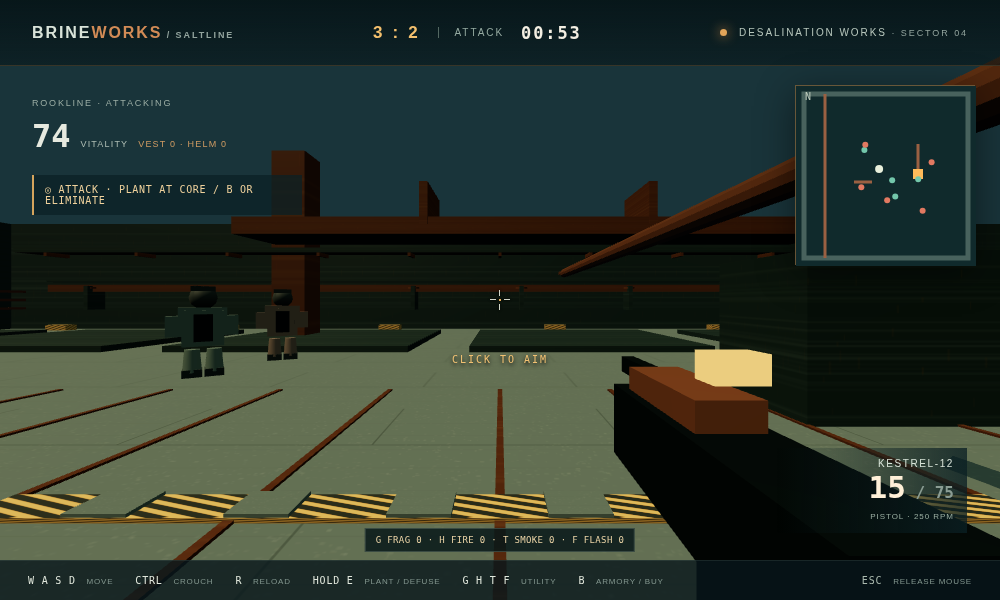
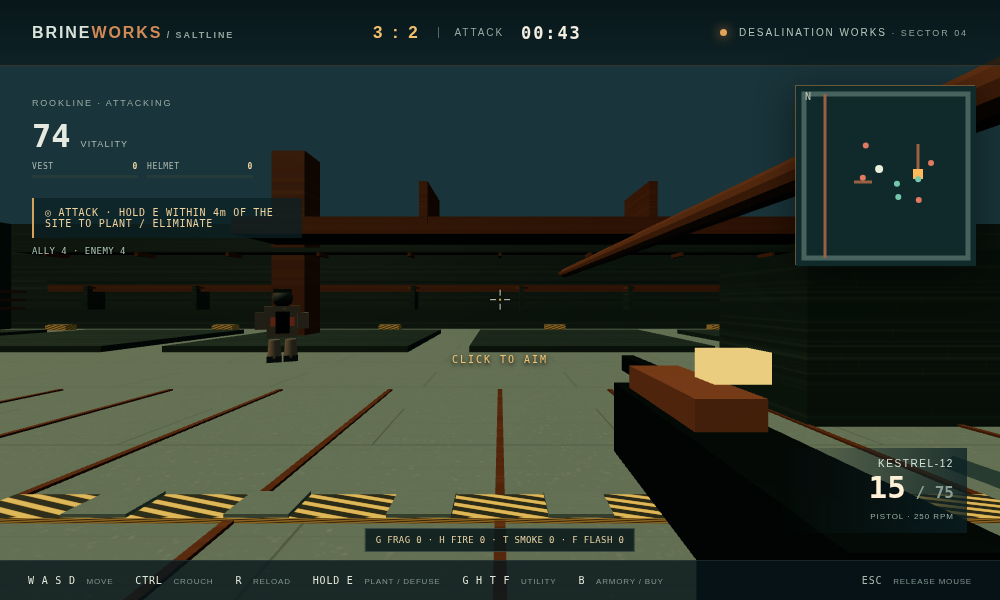
Improve tactical FPS feedback and projectile collision

diff --git a/game/src/ui.js b/game/src/ui.js
@@ -1,10 +1,10 @@
 import {state,buy,buyVest,buyHelmet,buyUtility,utilityCatalog,roleForRound} from './simulation.js';
-import {arsenal,categories} from './weapons.js';
+import {arsenal,categories,spreadForShot,recoilAngle} from './weapons.js';
 
 const root=document.querySelector('#ui');
 root.innerHTML=`<header class="top"><div class="brand">BRINE<span>WORKS</span><small> / SALTLINE</small></div><div class="round"><b id="score">0 : 0</b><span id="phase">BUY WINDOW</span><strong id="timer">00:12</strong></div><div class="site"><i></i> DESALINATION WORKS <small>· SECTOR 04</small></div></header>
-<div class="left"><div class="eyebrow" id="role">ROOKLINE · ATTACKING</div><div class="health"><b id="health">100</b><small>VITALITY</small><span id="armor">VEST 0 · HELM 0</span></div><div class="objective" id="objective">◎ SECURE THE SALT CORE</div><div class="feed" id="feed"></div></div>
-<div class="minimap"><canvas id="map" width="180" height="180"></canvas><span>N</span></div><div id="crosshair" class="crosshair"><i></i><i></i><i></i><i></i><b></b></div>
+<div class="left"><div class="eyebrow" id="role">ROOKLINE · ATTACKING</div><div class="health"><b id="health">100</b><small>VITALITY</small></div><div class="armor" aria-label="Armor durability"><span>VEST <b id="vest-value">0</b><i id="vest-bar" role="progressbar" aria-label="Vest durability" aria-valuemin="0" aria-valuemax="100" aria-valuenow="0"><em id="vest-fill"></em></i></span><span>HELMET <b id="helmet-value">0</b><i id="helmet-bar" role="progressbar" aria-label="Helmet durability" aria-valuemin="0" aria-valuemax="100" aria-valuenow="0"><em id="helmet-fill"></em></i></span></div><div class="objective" id="objective">◎ SECURE THE SALT CORE</div><div class="tactical" id="tactical"></div><div class="feed" id="feed"></div></div>
+<div class="minimap"><canvas id="map" width="180" height="180"></canvas><span>N</span></div><div id="crosshair" class="crosshair"><i></i><i></i><i></i><i></i><b></b></div><div id="hit-confirm" class="hit-confirm" aria-live="polite"></div><div id="incoming-cue" class="incoming-cue" aria-live="polite"></div>
 <div class="weapon"><div id="weapon">KESTREL-12</div><strong><b id="ammo">15</b><small> / <span id="stock">75</span></small></strong><em id="weapon-kind">PISTOL</em></div><div id="hint" class="hint">CLICK TO DEPLOY</div><div id="utility-hud" class="utility-hud" aria-label="In-round utility inventory"></div>
 <div class="buy hidden" id="buy"><div class="buy-head"><div><small>INTERMISSION / ARMORY</small><h1>Choose your <i>edge.</i></h1></div><div class="cash">◈ <b id="cash">1,800</b><small> CREDITS</small></div></div><div class="cards" id="cards"></div><div class="protection" aria-label="Tactical protection purchases"><button id="buy-vest" type="button">TACTICAL VEST <b>◈ 650</b><small>100 DURABILITY · 50% BODY REDUCTION</small><em class="durability">VEST EQUIPPED: 0</em></button><button id="buy-helmet" type="button">HELMET <b>◈ 350</b><small>100 DURABILITY · 50% PISTOL / SMG / LMG HEAD REDUCTION</small><em class="durability">HELMET EQUIPPED: 0</em></button></div><div class="utility-heading"><b>UTILITY · MAX 2 ITEMS</b><span>G FRAG · H INCENDIARY · T SMOKE · F FLASH</span></div><div class="utility-buy" id="utility-buy" aria-label="Utility purchases"></div><div class="buy-foot">1—5 SELECT / PURCHASE · CURRENT LOADOUT STAYS EQUIPPED · NEXT ROUND IN <b id="buytime">12</b></div></div>
 <div class="flash-overlay" id="flash-overlay" aria-hidden="true"></div><div class="result hidden" id="result"><small id="resultline">ROUND WON</small><h2 id="resulttitle">SITE SECURED</h2><p>Rearm and return to the salt line.</p></div>
@@ -16,4 +16,4 @@ arsenal.forEach((w,i)=>{const d=document.createElement('button');d.className='ca
 function updateArmory(){$('buy-vest').disabled=state.phase!=='buy'||state.vestBought||state.credits<650;$('buy-helmet').disabled=state.phase!=='buy'||state.helmetBought||state.credits<350;$('buy-vest').querySelector('.durability').textContent=`VEST EQUIPPED: ${state.vest}`;$('buy-helmet').querySelector('.durability').textContent=`HELMET EQUIPPED: ${state.helmet}`;$('buy-vest').setAttribute('aria-label',`Buy tactical vest for 650 credits; ${state.vest} durability equipped`);$('buy-helmet').setAttribute('aria-label',`Buy helmet for 350 credits; ${state.helmet} durability equipped`);for(const button of $('utility-buy').children){const type=button.dataset.utility,item=utilityCatalog[type],slots=Object.values(state.utilities).reduce((a,b)=>a+b,0);button.disabled=state.phase!=='buy'||state.utilities[type]>0||slots>=2||state.credits<item.cost;button.querySelector('.utility-status').textContent=state.utilities[type]?'PURCHASED':slots>=2?'2 ITEM LIMIT':state.credits<item.cost?'INSUFFICIENT CREDITS':'AVAILABLE';}cardNodes.forEach((d,i)=>{const w=arsenal[i],current=state.weapon.id===i;d.classList.toggle('current',current);d.disabled=state.phase!=='buy'||(!current&&state.credits<w.cost);d.querySelector('.cost').textContent=w.cost===0?'ISSUED / FREE':`◈ ${w.cost.toLocaleString()}`;d.querySelector('.selection').textContent=current?'EQUIPPED':state.credits<w.cost?'INSUFFICIENT CREDITS':'1—5 · BUY / EQUIP';});}
 let buyOpen=state.phase==='buy',previousPhase=state.phase;
 export function toggleArmory(){if(state.phase!=='buy')return false;buyOpen=!buyOpen;return true;}
-export function renderUI(){const live=state.phase==='live',attack=state.player.team===(state.round<=5?'Rookline':'Sumpguard'),side=state.player.team;if(state.phase!==previousPhase){if(state.phase==='buy')buyOpen=true;previousPhase=state.phase;}$('role').textContent=`${side.toUpperCase()} · ${roleForRound(side,state.round)}`;$('score').textContent=`${state.score.Rookline} : ${state.score.Sumpguard}`;$('phase').textContent=state.phase==='buy'?'BUY WINDOW':live?(attack?'ATTACK':'DEFEND'):'ROUND COMPLETE';$('timer').textContent=`${String(Math.max(0,Math.ceil(state.phase==='live'&&state.core?state.core.timer:state.clock)/60|0)).padStart(2,'0')}:${String(Math.max(0,Math.ceil(state.phase==='live'&&state.core?state.core.timer:state.clock)%60)).padStart(2,'0')}`;$('health').textContent=Math.max(0,state.health);$('armor').textContent=`VEST ${state.vest} · HELM ${state.helmet}`;$('utility-hud').textContent=`G FRAG ${state.utilities.frag}  ·  H FIRE ${state.utilities.molotov}  ·  T SMOKE ${state.utilities.smoke}  ·  F FLASH ${state.utilities.flash}`;$('utility-hud').hidden=state.phase!=='live';$('flash-overlay').style.opacity=state.playerFlash>0?String(Math.min(.92,state.playerFlash/.2*.92)):'0';$('weapon').textContent=state.weapon.name;$('weapon-kind').textContent=`${state.weapon.kind.toUpperCase()} · ${Math.round(60/state.weapon.interval)} RPM`;$('ammo').textContent=state.weapon.ammo;$('stock').textContent=state.weapon.stock;$('cash').textContent=state.credits.toLocaleString();$('buytime').textContent=Math.ceil(state.clock);$('buy').classList.toggle('hidden',state.phase!=='buy'||!buyOpen);$('result').classList.toggle('hidden',state.phase!=='result');$('resultline').textContent=state.roundWinner===side?'ROUND WON':'ROUND LOST';$('resulttitle').textContent=state.feed[0]?.split('—')[1]?.trim().toUpperCase()||'SALTLINE HELD';$('hint').textContent=document.pointerLockElement?'':state.phase==='buy'?'CLICK TO DEPLOY':'CLICK TO AIM';$('objective').textContent=state.core?.planted?`◉ CORE ARMED · ${Math.ceil(state.core.timer)}s · ${attack?'GUARD SITE':'DEFUSE'}`:state.phase==='buy'?`◈ ${side.toUpperCase()} · ${attack?'ATTACKERS':'DEFENDERS'} · ARMORY OPEN`:attack?'◎ ATTACK · PLANT AT CORE / B OR ELIMINATE':'◎ DEFEND · DENY PLANT / DEFUSE CORE';$('feed').innerHTML=state.feed.map(t=>`<div>${t}</div>`).join('');updateArmory();const canvas=$('map'),c=canvas.getContext('2d');c.clearRect(0,0,180,180);c.fillStyle='#102a2c';c.fillRect(0,0,180,180);c.strokeStyle='#48625d';c.lineWidth=5;c.strokeRect(8,8,164,164);c.strokeStyle='#9a6042';c.lineWidth=3;c.beginPath();c.moveTo(29,8);c.lineTo(29,172);c.moveTo(122,58);c.lineTo(122,94);c.moveTo(58,96);c.lineTo(76,96);c.stroke();c.fillStyle='#ffbb5a';c.fillRect(117,83,10,10);const dot=(x,z,color,r)=>{c.fillStyle=color;c.beginPath();c.arc(90+x*2.3,90+z*2.3,r,0,Math.PI*2);c.fill();};dot(state.player.x,state.player.z,'#e9f0dc',4);for(const b of state.bots)if(b.alive)dot(b.x,b.z,b.team==='Sumpguard'?'#e27961':'#73c7ab',3);if(state.core?.planted)dot(state.core.x,state.core.z,'#ffc04e',5);}
+export function renderUI(){const live=state.phase==='live',attack=state.player.team===(state.round<=5?'Rookline':'Sumpguard'),side=state.player.team;if(state.phase!==previousPhase){if(state.phase==='buy')buyOpen=true;previousPhase=state.phase;}$('role').textContent=`${side.toUpperCase()} · ${roleForRound(side,state.round)}`;$('score').textContent=`${state.score.Rookline} : ${state.score.Sumpguard}`;$('phase').textContent=state.phase==='buy'?'BUY WINDOW':live?(attack?'ATTACK':'DEFEND'):'ROUND COMPLETE';$('timer').textContent=`${String(Math.max(0,Math.ceil(state.phase==='live'&&state.core?state.core.timer:state.clock)/60|0)).padStart(2,'0')}:${String(Math.max(0,Math.ceil(state.phase==='live'&&state.core?state.core.timer:state.clock)%60)).padStart(2,'0')}`;$('health').textContent=Math.max(0,state.health);$('vest-value').textContent=state.vest;$('helmet-value').textContent=state.helmet;const vest=Math.max(0,Math.min(100,state.vest)),helmet=Math.max(0,Math.min(100,state.helmet));$('vest-bar').setAttribute('aria-valuenow',String(vest));$('vest-fill').style.width=`${vest}%`;$('helmet-bar').setAttribute('aria-valuenow',String(helmet));$('helmet-fill').style.width=`${helmet}%`;$('utility-hud').textContent=`G FRAG ${state.utilities.frag}  ·  H FIRE ${state.utilities.molotov}  ·  T SMOKE ${state.utilities.smoke}  ·  F FLASH ${state.utilities.flash}`;$('utility-hud').hidden=state.phase!=='live';$('flash-overlay').style.opacity=state.playerFlash>0?String(Math.min(.92,state.playerFlash/.2*.92)):'0';document.body.classList.toggle('under-fire',state.incomingHit>0);$('incoming-cue').textContent=state.incomingHit>0?state.incomingFeedback:'';$('hit-confirm').textContent=state.hitConfirmation?`${state.hitConfirmation.head?'HEAD':'BODY'} −${state.hitConfirmation.damage}`:'';$('hit-confirm').classList.toggle('active',!!state.hitConfirmation);$('crosshair').classList.toggle('hit',!!state.hitConfirmation);let ally=state.health>0?1:0,enemy=0;for(const b of state.bots)if(b.alive){if(b.team===side)ally++;else enemy++;}$('tactical').textContent=`ALLY ${ally}  ·  ENEMY ${enemy}`;if(state.planting>0)$('tactical').textContent+=`  ·  PLANT ${Math.max(0,2.5-state.planting).toFixed(1)}/2.5s`;else if(state.defusing>0)$('tactical').textContent+=`  ·  DEFUSE ${Math.max(0,4-state.defusing).toFixed(1)}/4.0s`;else if(state.botObjective.id!==null)$('tactical').textContent+=`  ·  BOT ${state.core?.planted?'DEFUSE':'PLANT'} ${Math.min(state.core?.planted?4:2.5,state.botObjective.progress).toFixed(1)}s`;$('weapon').textContent=state.weapon.name;$('weapon-kind').textContent=`${state.weapon.kind.toUpperCase()} · ${Math.round(60/state.weapon.interval)} RPM`;$('ammo').textContent=state.weapon.ammo;$('stock').textContent=state.weapon.stock;const speed=Math.hypot(state.player.vx,state.player.vz),spread=spreadForShot(state.weapon,{moving:speed>.5,crouched:state.player.crouch}),gap=Math.max(4,Math.min(34,4+spread*850)),recoilOffset=recoilAngle(state.weapon,state.recoil)*850;$('crosshair').style.setProperty('--reticle-gap',`${gap}px`);$('crosshair').style.setProperty('--reticle-rise',`${recoilOffset}px`);$('cash').textContent=state.credits.toLocaleString();$('buytime').textContent=Math.ceil(state.clock);$('buy').classList.toggle('hidden',state.phase!=='buy'||!buyOpen);$('result').classList.toggle('hidden',state.phase!=='result');$('resultline').textContent=state.roundWinner===side?'ROUND WON':'ROUND LOST';$('resulttitle').textContent=state.feed[0]?.split('—')[1]?.trim().toUpperCase()||'SALTLINE HELD';$('hint').textContent=document.pointerLockElement?'':state.phase==='buy'?'CLICK TO DEPLOY':'CLICK TO AIM';$('objective').textContent=state.core?.planted?`◉ CORE ARMED · ${Math.ceil(state.core.timer)}s · ${attack?'GUARD SITE':'DEFUSE'}`:state.phase==='buy'?`◈ ${side.toUpperCase()} · ${attack?'ATTACKERS':'DEFENDERS'} · ARMORY OPEN`:attack?'◎ ATTACK · HOLD E WITHIN 4m OF THE SITE TO PLANT / ELIMINATE':'◎ DEFEND · DENY PLANT / DEFUSE CORE';$('feed').innerHTML=state.feed.map(t=>`<div>${t}</div>`).join('');updateArmory();const canvas=$('map'),c=canvas.getContext('2d');c.clearRect(0,0,180,180);c.fillStyle='#102a2c';c.fillRect(0,0,180,180);c.strokeStyle='#48625d';c.lineWidth=5;c.strokeRect(8,8,164,164);c.strokeStyle='#9a6042';c.lineWidth=3;c.beginPath();c.moveTo(29,8);c.lineTo(29,172);c.moveTo(122,58);c.lineTo(122,94);c.moveTo(58,96);c.lineTo(76,96);c.stroke();c.fillStyle='#ffbb5a';c.fillRect(117,83,10,10);const dot=(x,z,color,r)=>{c.fillStyle=color;c.beginPath();c.arc(90+x*2.3,90+z*2.3,r,0,Math.PI*2);c.fill();};dot(state.player.x,state.player.z,'#e9f0dc',4);for(const b of state.bots)if(b.alive)dot(b.x,b.z,b.team==='Sumpguard'?'#e27961':'#73c7ab',3);if(state.core?.planted)dot(state.core.x,state.core.z,'#ffc04e',5);}

diff --git a/game/src/simulation.js b/game/src/simulation.js
@@ -1,6 +1,7 @@
 import {arsenal,categories,freshWeapon} from './weapons.js';
+import {stepProjectile} from './collision.js';
 
-export const state={phase:'buy',round:1,clock:12,score:{Rookline:0,Sumpguard:0},credits:1800,kills:0,health:100,vest:0,helmet:0,vestBought:false,helmetBought:false,utilities:{frag:0,molotov:0,smoke:0,flash:0},recoil:0,player:{x:-24,z:0,vx:0,vz:0,yaw:0,pitch:0,crouch:false,team:'Rookline'},weapon:freshWeapon(0),bots:[],core:null,grenade:null,fireZones:[],smokeZones:[],playerFlash:0,feed:[],roundWinner:null,planting:0,defusing:0,botObjective:{id:null,progress:0}};
+export const state={phase:'buy',round:1,clock:12,score:{Rookline:0,Sumpguard:0},credits:1800,kills:0,health:100,vest:0,helmet:0,vestBought:false,helmetBought:false,utilities:{frag:0,molotov:0,smoke:0,flash:0},recoil:0,player:{x:-24,z:0,vx:0,vz:0,yaw:0,pitch:0,crouch:false,team:'Rookline'},weapon:freshWeapon(0),bots:[],core:null,grenade:null,fireZones:[],smokeZones:[],playerFlash:0,incomingHit:0,incomingFeedback:'',hitConfirmation:null,feed:[],roundWinner:null,planting:0,defusing:0,botObjective:{id:null,progress:0}};
 export const utilityCatalog={frag:{label:'FRAG',cost:350},molotov:{label:'INCENDIARY',cost:450},smoke:{label:'SMOKE',cost:300},flash:{label:'FLASHBANG',cost:250}};
 export const keys=new Set();
 export const SITE={x:12,z:0};
@@ -10,17 +11,17 @@ export const attackerTeamForRound=round=>round<=5?'Rookline':'Sumpguard';
 export const opposingTeam=team=>team==='Rookline'?'Sumpguard':'Rookline';
 export const roleForRound=(team,round)=>team===attackerTeamForRound(round)?'ATTACKING':'DEFENDING';
 export function newBot(i,team='Rookline'){const [x,z]=routes[i%routes.length];return{id:++serial,team,kind:categories[(i*3+state.round)%categories.length],role:i%5===0?'Anchor':i%3===0?'Flanker':'Runner',x:x+(i%2)*1.6,z:z+(i%3)*1.2,hp:100,alive:true,route:(i*3)%routes.length,fire:0,alert:0,crouch:i%3===0,shots:0};}
-export function beginRound(round=state.round){state.round=round;state.phase='live';state.clock=60;state.health=100;state.recoil=0;state.planting=0;state.defusing=0;state.core=null;state.grenade=null;state.fireZones=[];state.smokeZones=[];state.playerFlash=0;state.roundWinner=null;state.botObjective={id:null,progress:0};state.player.team='Rookline';state.player.x=state.player.team===attackerTeamForRound(round)?-24:24;state.player.z=0;state.player.vx=state.player.vz=0;state.bots=[];const ally=state.player.team,foe=ally==='Rookline'?'Sumpguard':'Rookline';for(let i=0;i<9;i++)state.bots.push(newBot(i,i<4?ally:foe));state.weapon=freshWeapon(state.weapon.id);}
+export function beginRound(round=state.round){state.round=round;state.phase='live';state.clock=60;state.health=100;state.recoil=0;state.planting=0;state.defusing=0;state.core=null;state.grenade=null;state.fireZones=[];state.smokeZones=[];state.playerFlash=0;state.incomingHit=0;state.incomingFeedback='';state.hitConfirmation=null;state.roundWinner=null;state.botObjective={id:null,progress:0};state.player.team='Rookline';state.player.x=state.player.team===attackerTeamForRound(round)?-24:24;state.player.z=0;state.player.vx=state.player.vz=0;state.bots=[];const ally=state.player.team,foe=ally==='Rookline'?'Sumpguard':'Rookline';for(let i=0;i<9;i++)state.bots.push(newBot(i,i<4?ally:foe));state.weapon=freshWeapon(state.weapon.id);}
 export function startRound(demo=''){beginRound(state.round);if(demo==='plant'){state.core={planted:true,x:SITE.x,z:SITE.z,timer:26};state.player.x=-2;state.player.z=2;}}
-export function startBuy(){state.phase='buy';state.clock=12;state.core=null;state.health=100;state.vest=0;state.helmet=0;state.vestBought=false;state.helmetBought=false;state.utilities={frag:0,molotov:0,smoke:0,flash:0};state.fireZones=[];state.smokeZones=[];state.grenade=null;state.bots=[];state.weapon=freshWeapon(state.weapon.id);}
+export function startBuy(){state.phase='buy';state.clock=12;state.core=null;state.health=100;state.vest=0;state.helmet=0;state.incomingHit=0;state.incomingFeedback='';state.hitConfirmation=null;state.vestBought=false;state.helmetBought=false;state.utilities={frag:0,molotov:0,smoke:0,flash:0};state.fireZones=[];state.smokeZones=[];state.grenade=null;state.bots=[];state.weapon=freshWeapon(state.weapon.id);}
 export function seedArmoryPreview(){state.credits=2450;state.score={Rookline:4,Sumpguard:3};state.round=9;startBuy();}
 export function buy(id){if(state.phase!=='buy')return false;const w=arsenal[id];if(!w)return false;if(state.weapon.id===id)return true;if(state.credits<w.cost)return false;state.credits-=w.cost;state.weapon=freshWeapon(id);return true;}
 export function buyVest(){if(state.phase!=='buy'||state.vestBought||state.credits<650)return false;state.credits-=650;state.vest=100;state.vestBought=true;return true;}
 export function buyHelmet(){if(state.phase!=='buy'||state.helmetBought||state.credits<350)return false;state.credits-=350;state.helmet=100;state.helmetBought=true;return true;}
 export function buyUtility(type){const item=utilityCatalog[type];if(state.phase!=='buy'||!item||state.utilities[type]||Object.values(state.utilities).reduce((a,b)=>a+b,0)>=2||state.credits<item.cost)return false;state.credits-=item.cost;state.utilities[type]=1;return true;}
 export function launchUtility(type,projectile){if(state.phase!=='live'||!utilityCatalog[type]||!state.utilities[type]||state.grenade)return false;state.utilities[type]=0;state.grenade={...projectile,type};return true;}
-export function finishRound(winner,reason){if(state.phase!=='live')return false;state.phase='result';state.roundWinner=winner;state.score[winner]++;state.credits+=winner===state.player.team?2800:1900;state.feed.unshift(`${winner} — ${reason}`);state.feed.length=Math.min(4,state.feed.length);return true;}
-export function receiveBotHit(damage,{head=false,kind='Pistol'}={}){let mitigated=0;if(head){if(['Pistol','SMG','LMG'].includes(kind)){mitigated=Math.min(state.helmet,damage*.5);state.helmet-=mitigated;}}else{mitigated=Math.min(state.vest,damage*.5);state.vest-=mitigated;}state.health-=damage-mitigated;return damage-mitigated;}
+export function finishRound(winner,reason){if(state.phase!=='live')return false;state.phase='result';state.hitConfirmation=null;state.incomingHit=0;state.incomingFeedback='';state.roundWinner=winner;state.score[winner]++;state.credits+=winner===state.player.team?2800:1900;state.feed.unshift(`${winner} — ${reason}`);state.feed.length=Math.min(4,state.feed.length);return true;}
+export function receiveBotHit(damage,{head=false,kind='Pistol'}={}){let vestAbsorbed=0,helmetAbsorbed=0;if(head){if(['Pistol','SMG','LMG'].includes(kind)){helmetAbsorbed=Math.min(state.helmet,damage*.5);state.helmet-=helmetAbsorbed;}}else{vestAbsorbed=Math.min(state.vest,damage*.5);state.vest-=vestAbsorbed;}const healthDamage=damage-vestAbsorbed-helmetAbsorbed;state.health-=healthDamage;state.incomingHit=.32;state.incomingFeedback=`${vestAbsorbed?`VEST −${Math.round(vestAbsorbed)}  `:''}${helmetAbsorbed?`HELM −${Math.round(helmetAbsorbed)}  `:''}HP −${Math.round(healthDamage)}`;return healthDamage;}
 export function grenadeDamage(bot,g,visible=()=>true){if(!bot.alive||bot.team===state.player.team)return 0;const d=Math.hypot(bot.x-g.x,bot.z-g.z);if(d>=7||!visible(g.x,g.z,bot.x,bot.z))return 0;return Math.round(75*(1-d/7));}
 export function visibleWithSmoke(ax,az,bx,bz,baseVisible=()=>true){if(!baseVisible(ax,az,bx,bz))return false;for(const cloud of state.smokeZones){const dx=bx-ax,dz=bz-az,l2=dx*dx+dz*dz,t=l2?Math.max(0,Math.min(1,((cloud.x-ax)*dx+(cloud.z-az)*dz)/l2)):0;if(Math.hypot(ax+t*dx-cloud.x,az+t*dz-cloud.z)<cloud.radius)return false;}return true;}
 export function chooseTarget(bot,bots,player,visible=()=>true){const candidates=bots.filter(o=>o.alive&&o.team!==bot.team),playerAlive=player===state.player?state.health>0:player.health===undefined||player.health>0;if(player.team!==bot.team&&playerAlive)candidates.push(player);return candidates.filter(o=>visible(bot.x,bot.z,o.x,o.z)).sort((a,b)=>Math.hypot(a.x-bot.x,a.z-b.z)-Math.hypot(b.x-bot.x,b.z-b.z))[0]||null;}
@@ -29,7 +30,7 @@ export function canDefuse(){return state.phase==='live'&&state.player.team!==att
 export function requestPlant(){if(!canPlant())return false;state.planting=2.5;return true;}
 export function requestDefuse(){if(!canDefuse())return false;state.defusing=4;return true;}
 function eliminateBot(bot,cause){if(!bot.alive)return false;bot.alive=false;state.kills++;state.credits+=300;state.feed.unshift(`YOU  ›  ${bot.role} / ${cause}`);state.feed.length=Math.min(4,state.feed.length);return true;}
-export function hitBot(bot,head=false){if(!bot.alive||bot.team===state.player.team)return false;bot.hp-=head?state.weapon.head:state.weapon.damage;if(bot.hp<=0)eliminateBot(bot,head?'HEAD':'BODY');return true;}
+export function hitBot(bot,head=false){if(!bot.alive||bot.team===state.player.team)return 0;const damage=Math.min(bot.hp,head?state.weapon.head:state.weapon.damage);bot.hp-=damage;if(bot.hp<=0)eliminateBot(bot,head?'HEAD':'BODY');state.hitConfirmation={head,damage,time:.48};return damage;}
 function resolveElimination(){const livingTeams=new Set(state.bots.filter(b=>b.alive).map(b=>b.team));if(state.health>0)livingTeams.add(state.player.team);const attackers=attackerTeamForRound(state.round),defenders=attackers==='Rookline'?'Sumpguard':'Rookline';if(!livingTeams.has(attackers))finishRound(defenders,'attackers eliminated');else if(!livingTeams.has(defenders))finishRound(attackers,'defenders eliminated');}
 function detonateProjectile(g,ctx){if(!g.type||g.type==='frag'){for(const b of state.bots){const d=grenadeDamage(b,g,ctx.visible);if(d){b.hp-=d;if(b.hp<=0)eliminateBot(b,'GRENADE');}}}else if(g.type==='molotov'){state.fireZones.push({id:++effectSerial,x:g.x,z:g.z,radius:3.2,timer:5,elapsed:0});}else if(g.type==='smoke'){state.smokeZones.push({id:++effectSerial,x:g.x,z:g.z,radius:4.5,timer:8});}else if(g.type==='flash'){for(const b of state.bots){if(b.alive&&b.team!==state.player.team&&Math.hypot(b.x-g.x,b.z-g.z)<=9&&ctx.visible(g.x,g.z,b.x,b.z))b.blind=3.5;}if(Math.hypot(state.player.x-g.x,state.player.z-g.z)<=9&&ctx.visible(g.x,g.z,state.player.x,state.player.z))state.playerFlash=.35;}}
 export function stepBotObjective(dt,ctx){
@@ -52,7 +53,7 @@ export function liveStep(dt,ctx){
  state.clock-=dt;state.recoil=Math.max(0,state.recoil-dt*2.4);
  if(state.core?.planted){state.core.timer-=dt;if(state.core.timer<=0){finishRound(attackerTeamForRound(state.round),'core detonated');return;}}
  if(state.clock<=0&&!state.core){const a=attackerTeamForRound(state.round);finishRound(a==='Rookline'?'Sumpguard':'Rookline','no plant / time held');return;}
- state.playerFlash=Math.max(0,state.playerFlash-dt);if(state.grenade){const g=state.grenade;g.timer-=dt;g.x+=g.vx*dt;g.y+=g.vy*dt;g.z+=g.vz*dt;g.vy-=9.8*dt;if(g.y<.2){g.y=.2;g.vy=Math.abs(g.vy)*.38;g.vx*=.72;g.vz*=.72;}if(g.timer<=0){detonateProjectile(g,ctx);state.grenade=null;}}
+ state.playerFlash=Math.max(0,state.playerFlash-dt);state.incomingHit=Math.max(0,state.incomingHit-dt);if(state.hitConfirmation){state.hitConfirmation.time-=dt;if(state.hitConfirmation.time<=0)state.hitConfirmation=null;}if(state.grenade){const g=state.grenade;g.timer-=dt;stepProjectile(g,dt,ctx.colliders||[]);if(g.timer<=0){detonateProjectile(g,ctx);state.grenade=null;}}
  for(const smoke of state.smokeZones)smoke.timer-=dt;state.smokeZones=state.smokeZones.filter(s=>s.timer>0);
  for(const fire of state.fireZones){fire.timer-=dt;fire.elapsed+=dt;while(fire.elapsed>=.5){fire.elapsed-=.5;for(const b of state.bots){if(b.alive&&b.team!==state.player.team&&Math.hypot(b.x-fire.x,b.z-fire.z)<=fire.radius&&ctx.visible(fire.x,fire.z,b.x,b.z)){b.hp-=12;if(b.hp<=0)eliminateBot(b,'MOLOTOV');}}}}state.fireZones=state.fireZones.filter(f=>f.timer>0);
  const p=state.player,forward=(keys.has('KeyW')?1:0)-(keys.has('KeyS')?1:0),side=(keys.has('KeyD')?1:0)-(keys.has('KeyA')?1:0),c=Math.cos(p.yaw),s=Math.sin(p.yaw);let ax=forward*-s+side*c,az=forward*-c-side*-s,n=Math.hypot(ax,az)||1;ax/=n;az/=n;p.crouch=keys.has('ControlLeft')||keys.has('KeyC');const max=p.crouch?3.1:6.4;p.vx+=(ax*max-p.vx)*Math.min(1,dt*9);p.vz+=(az*max-p.vz)*Math.min(1,dt*9);if(!forward&&!side){p.vx*=Math.max(0,1-dt*7);p.vz*=Math.max(0,1-dt*7);}ctx.move(p,p.vx*dt,p.vz*dt);

diff --git a/game/src/main.js b/game/src/main.js
@@ -14,10 +14,10 @@ const botMeshes=new Map();const bodyMat=new THREE.MeshStandardMaterial({color:'#
 function makeBot(bot){const id=bot.id,g=new THREE.Group(),base=bot.team==='Sumpguard'?enemyMat:bodyMat,accent=new THREE.MeshStandardMaterial({color:bot.team==='Sumpguard'?'#d16b4e':'#51bd9c',roughness:.58,metalness:.22});const part=(geo,mat,x,y,z)=>{const m=new THREE.Mesh(geo,mat);m.position.set(x,y,z);m.castShadow=true;m.receiveShadow=true;g.add(m);return m;};part(new THREE.BoxGeometry(.72,.76,.38),base,0,1.05,0);part(new THREE.BoxGeometry(.83,.2,.32),base,0,1.39,0);part(new THREE.BoxGeometry(.55,.24,.46),accent,0,1.08,-.04);part(new THREE.SphereGeometry(.25,8,6),headMat,0,1.7,0);part(new THREE.BoxGeometry(.42,.1,.42),headMat,0,1.89,0);part(new THREE.BoxGeometry(.38,.09,.08),accent,0,1.71,-.23);part(new THREE.BoxGeometry(.28,.43,.28),base,-.48,1.1,0);part(new THREE.BoxGeometry(.28,.43,.28),base,.48,1.1,0);part(new THREE.CylinderGeometry(.15,.19,.48,6),base,-.19,.36,0);part(new THREE.CylinderGeometry(.15,.19,.48,6),base,.19,.36,0);part(new THREE.BoxGeometry(.34,.16,.42),headMat,-.19,.1,-.04);part(new THREE.BoxGeometry(.34,.16,.42),headMat,.19,.1,-.04);part(new THREE.BoxGeometry(.32,.56,.26),metal,0,1.07,.32);const gunpart=part(new THREE.BoxGeometry(.12,.13,.65),metal,.35,1.0,-.35);gunpart.rotation.x=.08;scene.add(g);botMeshes.set(id,{g});return g;}
 const floorBound=29;
 function blocked(x,z){return pointBlocked(x,z,colliders,.38,floorBound);}
-const ctx={move(p,dx,dz){if(!blocked(p.x+dx,p.z))p.x+=dx;else p.vx=0;if(!blocked(p.x,p.z+dz))p.z+=dz;else p.vz=0;},moveBot(b,dx,dz){[b.x,b.z]=steerStep(b.x,b.z,dx,dz,colliders,.38,b.id,floorBound);},visible:(ax,az,bx,bz)=>visibleWithSmoke(ax,az,bx,bz,traceVisible)};
+const ctx={colliders,move(p,dx,dz){if(!blocked(p.x+dx,p.z))p.x+=dx;else p.vx=0;if(!blocked(p.x,p.z+dz))p.z+=dz;else p.vz=0;},moveBot(b,dx,dz){[b.x,b.z]=steerStep(b.x,b.z,dx,dz,colliders,.38,b.id,floorBound);},visible:(ax,az,bx,bz)=>visibleWithSmoke(ax,az,bx,bz,traceVisible)};
 const step=1/60;let accumulator=0,last=performance.now(),shotFlash=0;const look=new THREE.Vector3(),origin=new THREE.Vector3();let projectileMesh=null,projectileType=null;const zoneVisuals={fire:new Map(),smoke:new Map()};
 function aimDirection(){camera.getWorldDirection(look);return look;}
-function shoot(){if(state.phase!=='live'||state.weapon.reloading>0||state.weapon.cooldown>0)return;if(!state.weapon.ammo){state.weapon.cooldown=.2;return;}state.weapon.ammo--;const w=state.weapon;w.cooldown=w.interval;const moving=Math.hypot(state.player.vx,state.player.vz),spread=spreadForShot(w,{moving:moving>.5,crouched:state.player.crouch});state.shots=(state.shots||0)+1;const jitter=((state.shots*37%17)/17-.5)*spread,verticalJitter=((state.shots*19%13)/13-.5)*spread*.6;state.recoil=Math.min(2,state.recoil+w.recoil*.2);const shotPitch=state.player.pitch+recoilAngle(w,state.recoil)+verticalJitter;camera.getWorldPosition(origin);const sy=Math.sin(state.player.yaw+jitter),cy=Math.cos(state.player.yaw+jitter);let best=null,bestD=100,bestHead=false;for(const b of state.bots){if(!b.alive||b.team===state.player.team)continue;const dx=b.x-origin.x,dz=b.z-origin.z,dist=Math.hypot(dx,dz);if(dist>w.range)continue;const forward=-sy*dx-cy*dz;const lateral=Math.abs(cy*dx-sy*dz);const aimHeight=origin.y+Math.tan(shotPitch)*forward;const vertical=Math.abs(aimHeight-1.35);if(forward>0&&lateral<.55+dist*spread*1.3&&vertical<1.1&&dist<bestD&&ctx.visible(origin.x,origin.z,b.x,b.z)){best=b;bestD=dist;bestHead=vertical<.34;}}if(best){hitBot(best,bestHead);document.querySelector('#crosshair')?.classList.add('hit');setTimeout(()=>document.querySelector('#crosshair')?.classList.remove('hit'),100);}muzzle.visible=true;muzzleLight.intensity=2.2;shotFlash=.075;}
+function shoot(){if(state.phase!=='live'||state.weapon.reloading>0||state.weapon.cooldown>0)return;if(!state.weapon.ammo){state.weapon.cooldown=.2;return;}state.weapon.ammo--;const w=state.weapon;w.cooldown=w.interval;const moving=Math.hypot(state.player.vx,state.player.vz),spread=spreadForShot(w,{moving:moving>.5,crouched:state.player.crouch});state.shots=(state.shots||0)+1;const jitter=((state.shots*37%17)/17-.5)*spread,verticalJitter=((state.shots*19%13)/13-.5)*spread*.6;state.recoil=Math.min(2,state.recoil+w.recoil*.2);const shotPitch=state.player.pitch+recoilAngle(w,state.recoil)+verticalJitter;camera.getWorldPosition(origin);const sy=Math.sin(state.player.yaw+jitter),cy=Math.cos(state.player.yaw+jitter);let best=null,bestD=100,bestHead=false;for(const b of state.bots){if(!b.alive||b.team===state.player.team)continue;const dx=b.x-origin.x,dz=b.z-origin.z,dist=Math.hypot(dx,dz);if(dist>w.range)continue;const forward=-sy*dx-cy*dz;const lateral=Math.abs(cy*dx-sy*dz);const aimHeight=origin.y+Math.tan(shotPitch)*forward;const vertical=Math.abs(aimHeight-1.35);if(forward>0&&lateral<.55+dist*spread*1.3&&vertical<1.1&&dist<bestD&&ctx.visible(origin.x,origin.z,b.x,b.z)){best=b;bestD=dist;bestHead=vertical<.34;}}if(best)hitBot(best,bestHead);muzzle.visible=true;muzzleLight.intensity=2.2;shotFlash=.075;}
 function throwUtility(type){if(state.phase!=='live'||!state.utilities[type]||state.grenade)return;const d=aimDirection();camera.getWorldPosition(origin);launchUtility(type,{x:origin.x+d.x*1.4,y:origin.y+d.y*1.4,z:origin.z+d.z*1.4,vx:d.x*10,vy:d.y*10,vz:d.z*10,timer:1.35});}
 window.addEventListener('keydown',e=>{keys.add(e.code);if(e.code==='KeyB'&&state.phase==='buy'&&!e.repeat)toggleArmory();if(e.code.startsWith('Digit')&&state.phase==='buy')buy(Number(e.code.slice(-1))-1);if(e.code==='KeyE'&&state.phase==='live'&&!e.repeat){if(state.core)requestDefuse();else requestPlant();}if(!e.repeat&&e.code==='KeyG')throwUtility('frag');if(!e.repeat&&e.code==='KeyH')throwUtility('molotov');if(!e.repeat&&e.code==='KeyT')throwUtility('smoke');if(!e.repeat&&e.code==='KeyF')throwUtility('flash');if(e.code==='Escape')document.exitPointerLock?.();});window.addEventListener('keyup',e=>keys.delete(e.code));window.addEventListener('blur',()=>keys.clear());canvas.addEventListener('click',()=>{if(!document.pointerLockElement)canvas.requestPointerLock();});window.addEventListener('mousedown',e=>{if(e.button===0&&document.pointerLockElement)shoot();});window.addEventListener('mousemove',e=>{if(document.pointerLockElement){state.player.yaw-=e.movementX*.0022;state.player.pitch=Math.max(-1.25,Math.min(1.25,state.player.pitch-e.movementY*.002));}});window.addEventListener('resize',()=>{camera.aspect=innerWidth/innerHeight;camera.updateProjectionMatrix();renderer.setSize(innerWidth,innerHeight);});
 function syncZoneVisuals(zones,map,kind){const active=new Set();for(const zone of zones){active.add(zone.id);let obj=map.get(zone.id);if(!obj){const material=new THREE.MeshStandardMaterial({color:kind==='fire'?'#f06c31':'#71858a',emissive:kind==='fire'?'#9f3517':'#26383c',emissiveIntensity:kind==='fire'?.65:.08,transparent:true,opacity:kind==='fire'?.72:.26,depthWrite:false});const geometry=kind==='fire'?new THREE.CylinderGeometry(1,1,.1,20):new THREE.SphereGeometry(1,16,12);obj=new THREE.Mesh(geometry,material);scene.add(obj);map.set(zone.id,obj);}obj.position.set(zone.x,kind==='fire'?.07:1.45,zone.z);obj.scale.set(zone.radius,kind==='fire'?1:1.35,zone.radius);obj.material.opacity=(kind==='fire'?.72:.26)*Math.min(1,zone.timer/(kind==='fire'?1:1.5));}for(const [id,obj] of map){if(!active.has(id)){scene.remove(obj);obj.geometry.dispose();obj.material.dispose();map.delete(id);}}}

diff --git a/game/src/style.css b/game/src/style.css
@@ -21,6 +21,8 @@
 .protection button em.durability{display:block;margin-top:3px;color:#ffc66e;font:8px monospace;font-style:normal}
 .utility-buy{display:grid;grid-template-columns:repeat(4,minmax(0,1fr));gap:8px;flex:none;margin-bottom:9px}.utility-option{min-width:0;padding:7px 9px;text-align:left;border:1px solid #637b70;background:linear-gradient(145deg,#203a38,#102526);color:#e7e9dc;font:9px monospace;cursor:pointer}.utility-option b{color:#f0bd6e}.utility-option span{float:right;color:#e5e5d5}.utility-option small{display:block;margin-top:5px;color:#9db0a4;font:8px Arial}.utility-option:disabled{opacity:.5;cursor:not-allowed}.utility-option:focus-visible,.protection button:focus-visible{outline:2px solid #ffc66e;outline-offset:2px}.utility-hud{position:absolute;left:50%;bottom:48px;transform:translateX(-50%);padding:6px 10px;background:#071719d9;border:1px solid #72847766;color:#ead3a6;font:9px monospace;letter-spacing:.04em;white-space:nowrap;z-index:4}.flash-overlay{position:fixed;inset:0;background:#fff;opacity:0;pointer-events:none;z-index:50;transition:opacity .08s linear}
 @media(max-width:760px){.utility-buy{grid-template-columns:repeat(2,minmax(0,1fr));gap:6px}.utility-hud{bottom:43px;font-size:7px;max-width:95vw;white-space:normal;text-align:center}.protection button small{font-size:7px}}
+.armor{display:flex;gap:9px;margin-top:7px}.armor span{width:106px;color:#aebdb3;font:8px monospace;letter-spacing:.08em}.armor b{float:right;color:#f0d3a0}.armor i{display:block;width:100%;height:3px;margin-top:4px;background:#243b39}.armor em{display:block;height:100%;width:0;background:#d09a5e;transition:width .12s linear}.armor span+span em{background:#94b9bc}.tactical{margin-top:8px;color:#a9c7b6;font:9px monospace;letter-spacing:.05em;text-shadow:0 1px 3px #000}.crosshair{width:calc(var(--reticle-gap,6px)*2 + 2px);height:calc(var(--reticle-gap,6px)*2 + 2px)}.crosshair i:nth-child(1){left:50%;top:0;transform:translateX(-50%)}.crosshair i:nth-child(2){left:50%;top:auto;bottom:0;transform:translateX(-50%)}.crosshair i:nth-child(3){left:0;top:50%;transform:translateY(-50%)}.crosshair i:nth-child(4){right:0;top:50%;transform:translateY(-50%)}.hit-confirm{position:absolute;left:50%;top:calc(50% + 30px);transform:translateX(-50%);font:700 10px monospace;letter-spacing:.12em;color:#d9e6d9;text-shadow:0 1px 4px #000;opacity:0;transition:opacity .08s}.hit-confirm.active{opacity:1;color:#f1c371}.incoming-cue{position:absolute;left:50%;top:55%;transform:translateX(-50%);padding:5px 8px;background:#351e18c9;border:1px solid #bd63466b;color:#ffd0aa;font:9px monospace;letter-spacing:.08em;opacity:0;pointer-events:none}.under-fire .incoming-cue{opacity:1}.under-fire #view{filter:saturate(.86)}.under-fire #ui:after{content:"";position:absolute;inset:0;box-shadow:inset 0 0 90px 14px #c83f2938;pointer-events:none}
+.crosshair{transform:translate(-50%,calc(-50% - var(--reticle-rise,0px)))}.crosshair b{left:50%;top:50%;transform:translate(-50%,-50%)}
 @media(min-width:761px) and (max-height:580px){.utility-buy{gap:6px;margin-bottom:6px}.utility-option{padding:5px 7px}.utility-option small{margin-top:2px}.protection button{padding:5px 7px}.card{padding:8px 8px 6px}.card h2{margin:4px 0}.weapon-stats{gap:2px 4px;margin:1px 0 4px}}
 .utility-heading{display:flex;align-items:center;justify-content:space-between;gap:12px;margin-top:5px;margin-bottom:4px;color:#d8e2d7;font:8px monospace;letter-spacing:.08em;flex:none}.utility-heading b{color:#f0bd6e}.utility-heading span{color:#a7b6ac;text-align:right}
 @media(max-width:760px){.utility-heading{font-size:7px;letter-spacing:0;gap:5px}.utility-heading span{max-width:65%;line-height:1.35}}

diff --git a/game/src/collision.js b/game/src/collision.js
@@ -1,5 +1,35 @@
 export function lineClear(ax,az,bx,bz,obstacles){const dx=bx-ax,dz=bz-az,len2=dx*dx+dz*dz;for(const c of obstacles){if(c.y!==undefined&&c.h!==undefined&&c.y-c.h/2>1.8)continue;if(c.r!==undefined){const t=len2?Math.max(0,Math.min(1,((c.x-ax)*dx+(c.z-az)*dz)/len2)):0;if(Math.hypot(ax+dx*t-c.x,az+dz*t-c.z)<c.r)return false;continue;}let t0=0,t1=1;for(const [p,q] of [[-dx,ax-(c.x-c.w/2)],[dx,(c.x+c.w/2)-ax],[-dz,az-(c.z-c.d/2)],[dz,(c.z+c.d/2)-az]]){if(Math.abs(p)<1e-9){if(q<0){t0=2;break;}}else{const t=q/p;if(p<0)t0=Math.max(t0,t);else t1=Math.min(t1,t);}}if(t0<=t1&&t0<=1&&t1>=0)return false;}return true;}
 export function pointBlocked(x,z,obstacles,radius=.38,bounds=29){if(Math.abs(x)>bounds||Math.abs(z)>23.5)return true;return obstacles.some(c=>{if(c.y!==undefined&&c.h!==undefined&&c.y-c.h/2>1.35)return false;return c.r!==undefined?Math.hypot(x-c.x,z-c.z)<c.r+radius:Math.abs(x-c.x)<c.w/2+radius&&Math.abs(z-c.z)<c.d/2+radius;});}
+// Projectile collision shares the arena's box/cylinder collider descriptions but
+// checks vertical overlap, so raised cover can be cleared by a low throw only
+// when the projectile actually passes below it.
+export function projectileBlocked(x,y,z,obstacles,radius=.2){for(const c of obstacles){if(c.y!==undefined&&c.h!==undefined&&Math.abs(y-c.y)>c.h/2+radius)continue;if(c.r!==undefined){const dx=x-c.x,dz=z-c.z,reach=c.r+radius;if(dx*dx+dz*dz<reach*reach)return true;}else if(Math.abs(x-c.x)<c.w/2+radius&&Math.abs(z-c.z)<c.d/2+radius)return true;}return false;}
+export function stepProjectile(g,dt,obstacles,step=1/60){
+ g._stepRemainder=(g._stepRemainder||0)+dt;
+ while(g._stepRemainder+1e-9>=step){
+  g._stepRemainder-=step;
+  const vx=g.vx,vy=g.vy,vz=g.vz,x0=g.x,y0=g.y,z0=g.z;
+  const verticalTravel=Math.abs(vy*step)+4.9*step*step;
+  const samples=Math.max(1,Math.ceil(Math.max(Math.abs(vx*step),Math.abs(vz*step),verticalTravel)/.08));
+  let hitWall=false,hitFloor=false;
+  for(let i=1;i<=samples;i++){
+   const t=step*i/samples,nx=x0+vx*t,rawY=y0+vy*t-4.9*t*t,nz=z0+vz*t;
+   const floor=rawY<.2,ny=floor ? .2 : rawY;
+   if(projectileBlocked(nx,ny,nz,obstacles)){
+    const hitX=projectileBlocked(nx,ny,g.z,obstacles),hitZ=projectileBlocked(g.x,ny,nz,obstacles);
+    if(hitX)g.vx=-vx*.42;else g.x=nx;
+    if(hitZ)g.vz=-vz*.42;else g.z=nz;
+    if(!hitX&&!hitZ){g.vx=-vx*.42;g.vz=-vz*.42;}
+    g.y=ny;hitWall=true;hitFloor=floor;break;
+   }
+   g.x=nx;g.y=ny;g.z=nz;
+   if(floor){hitFloor=true;break;}
+  }
+  if(hitFloor){g.vy=Math.abs(vy-9.8*step)*.38;g.vx*=.72;g.vz*=.72;}
+  else if(hitWall)g.vy=vy-9.8*step;
+  else g.vy=vy-9.8*step;
+ }
+}
 export function steerStep(x,z,dx,dz,obstacles,radius=.38,seed=0,bounds=29){
  const tx=x+dx,tz=z+dz;if(!pointBlocked(tx,tz,obstacles,radius,bounds))return [tx,tz];
  const len=Math.hypot(dx,dz);if(len<1e-8)return [x,z];const fx=dx/len,fz=dz/len,choices=[[fz,-fx],[-fz,fx],[fx*.7+fz*.7,fz*.7-fx*.7],[fx*.7-fz*.7,fz*.7+fx*.7]];let best=null,bestScore=Infinity;

diff --git a/README.md b/README.md
@@ -6,13 +6,14 @@
 
 An original offline, round-based tactical FPS with bots, objective play, and weapon loadouts.
 
-**Next candidate: v2.1.0**
+**Next candidate: v2.1.1**
 
 ## Changelog
 
 - **v1.0.0** — Initial offline tactical FPS build with one compact arena, bot opponents, weapon purchases, and a site objective.
 - **v2.0.0** — Procedural harbor materials and set dressing; five original weapon classes with distinct stats and a persistent round economy; halftime team-role swap, objective-capable AI, and polished combat feedback. Firearm and grenade eliminations share exact 300-credit rewards and clear kill-feed causes. Buyable tactical vest (650 credits, 100 durability, 50% body reduction) and helmet (350 credits, 100 durability, 50% Pistol/SMG/LMG headshot reduction) add round-based protection; AR and Sniper headshots remain lethal. Four round-limited utilities—Frag (350), Incendiary (450), Smoke (300), and Flashbang (250)—add deterministic damage, fire, concealment, and blinding effects, with two total slots and dedicated hotkeys. The armory is responsive and readable, armor purchases are limited to once each per round, and the live-state no-op was removed.
 - **v2.1.0** — Streamlined armory stat labels, clarified the two-item utility cap and G/H/T/F mapping, and verified the layout fits short desktop viewports.
+- **v2.1.1** — Reticle gap tracks the equipped gun's shot spread, movement, and crouch accuracy, while a separate vertical offset reflects recoil; successful body/head hits show brief confirmation with damage actually applied. Armor durability bars and incoming-hit feedback show the health and vest/helmet durability actually lost, alongside remaining ally/enemy counts and live player/bot plant or defuse progress. Utility projectiles advance on deterministic fixed steps, bounce from box and cylindrical arena cover, and retain floor-bounce behavior; existing hostile-only utility effects and limits are unchanged. Added collision, combat-feedback-state, and armor-feedback regression coverage.
 
 ## Run it
 
